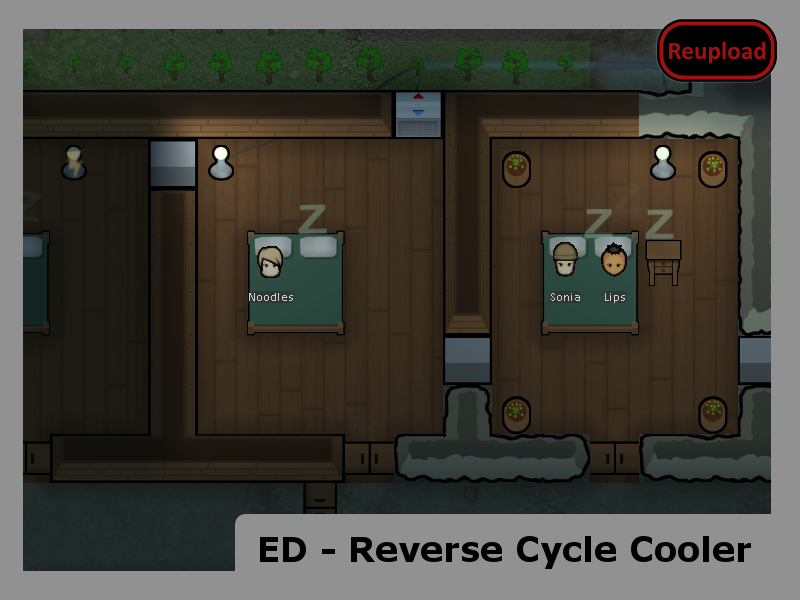
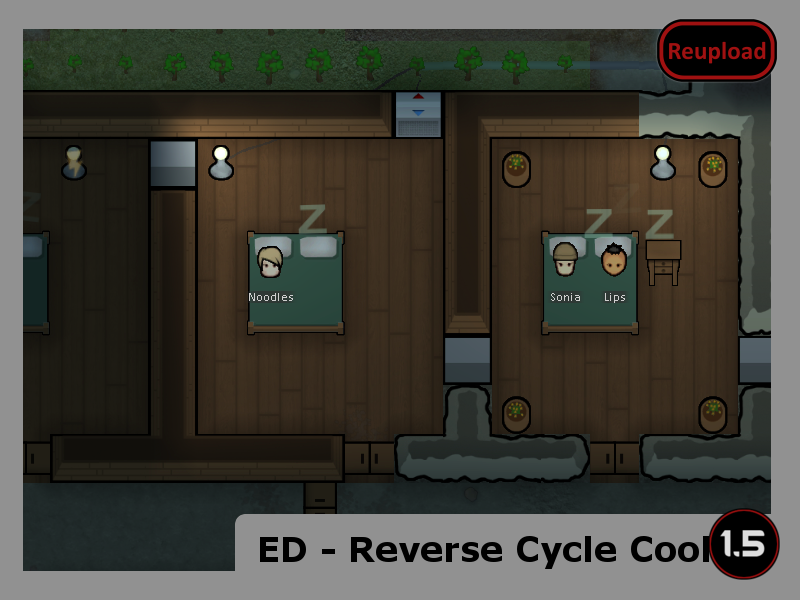
Mod updated for 1.5 and passed autotests

Changed region(s): [[0.875, 0.84, 1.0, 0.99]]

diff --git a/Source/ED-ReverseCycleCooler/PlaceWorker_ReverseCycleCooler.cs b/Source/ED-ReverseCycleCooler/PlaceWorker_ReverseCycleCooler.cs
@@ -1,5 +1,4 @@
-using System.Collections.Generic;
-using System.Linq;
+using System.Linq;
 using RimWorld;
 using UnityEngine;
 using Verse;
@@ -15,15 +14,9 @@ internal class PlaceWorker_ReverseCycleCooler : PlaceWorker
         var coldSide = center + IntVec3.South.RotatedBy(rot); // formerly known as intVec
         var hotSide = center + ReplaceStuffFix.adjustedNorth(def).RotatedBy(rot); // formerly known as intVec2
 
-        GenDraw.DrawFieldEdges(new List<IntVec3>
-        {
-            coldSide
-        }, Color.magenta);
+        GenDraw.DrawFieldEdges([coldSide], Color.magenta);
 
-        GenDraw.DrawFieldEdges(new List<IntVec3>
-        {
-            hotSide
-        }, GenTemperature.ColorSpotHot);
+        GenDraw.DrawFieldEdges([hotSide], GenTemperature.ColorSpotHot);
 
         var hotRoom = hotSide.GetRoom(currentMap); // formerly known as roomGroup
         var coldRoom = coldSide.GetRoom(currentMap); // formerly known as roomGroup2

diff --git a/Source/ED-ReverseCycleCooler/Building_ReverseCycleCooler.cs b/Source/ED-ReverseCycleCooler/Building_ReverseCycleCooler.cs
@@ -166,7 +166,7 @@ public class Building_ReverseCycleCooler : Building_Cooler
             Position += IntVec3.South.RotatedBy(Rotation);
         }
 
-        Map.mapDrawer.MapMeshDirty(Position, MapMeshFlag.Things, true, false);
+        Map.mapDrawer.MapMeshDirty(Position, MapMeshFlagDefOf.Things, true, false);
     }
 
     public void ChangeMode()

diff --git a/README.md b/README.md
@@ -25,11 +25,13 @@ Additionally the mod adds a button that allows you to rotate already placed cool
 
 -  See if the the error persists if you just have this mod and its requirements active.
 -  If not, try adding your other mods until it happens again.
--  Post your error-log using https://steamcommunity.com/workshop/filedetails/?id=818773962]HugsLib and command Ctrl+F12
+-  Post your error-log using https://steamcommunity.com/workshop/filedetails/?id=818773962]HugsLib or the standalone https://steamcommunity.com/sharedfiles/filedetails/?id=2873415404]Uploader and command Ctrl+F12
 -  For best support, please use the Discord-channel for error-reporting.
 -  Do not report errors by making a discussion-thread, I get no notification of that.
 -  If you have the solution for a problem, please post it to the GitHub repository.
+-  Use https://github.com/RimSort/RimSort/releases/latest]RimSort to sort your mods
 
 
 
+https://steamcommunity.com/sharedfiles/filedetails/changelog/2565870562]![Image](https://img.shields.io/github/v/release/emipa606/EDReverseCycleCooler?label=latest%20version&style=plastic&color=9f1111&labelColor=black)
 
